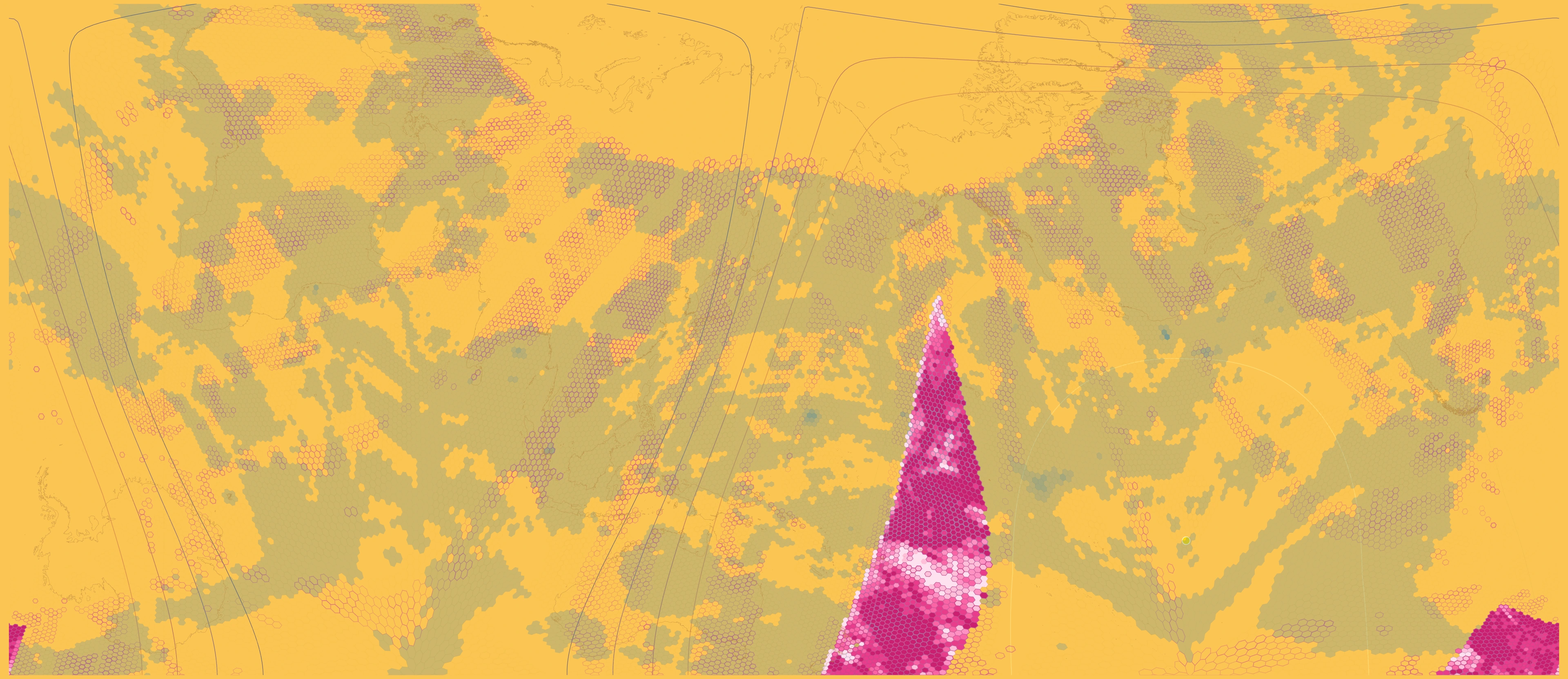
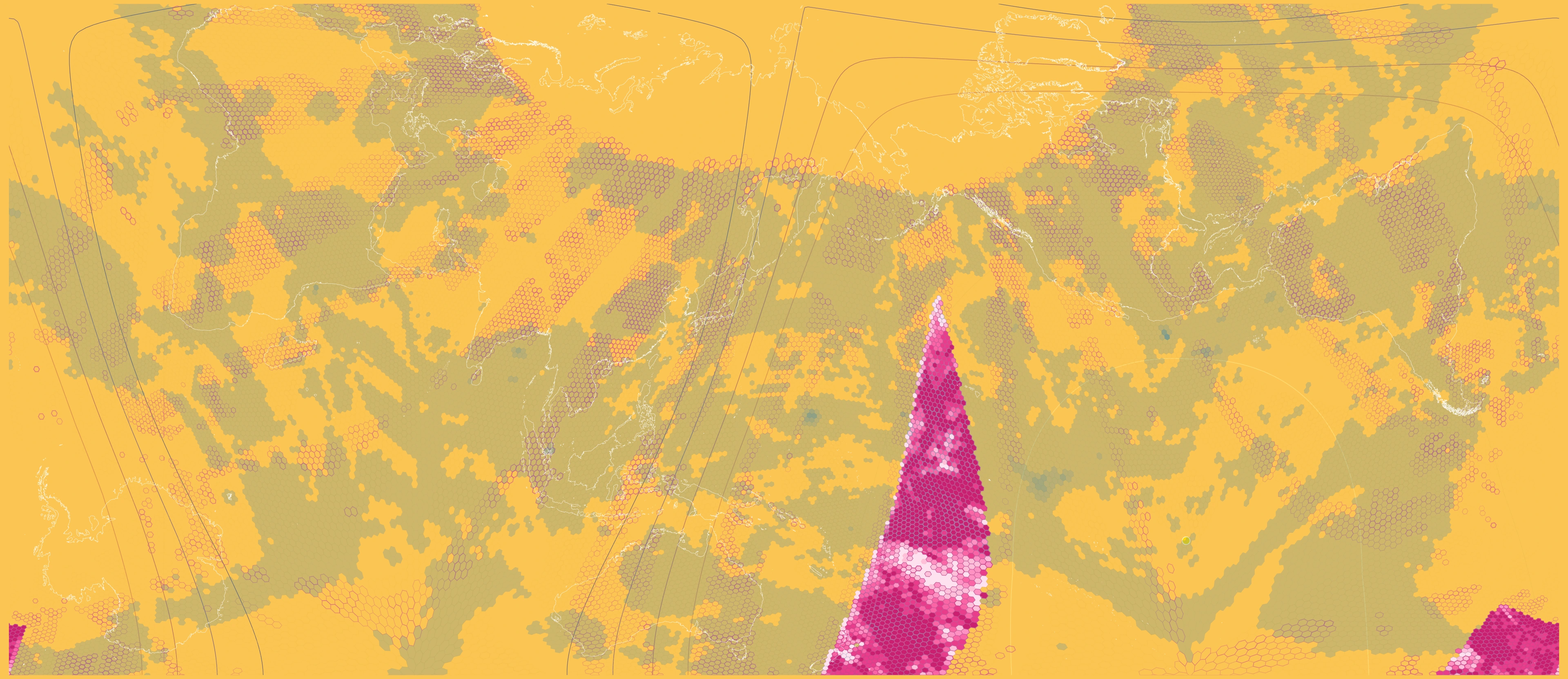
Place white land outlines above Setouchi atmosphere layers

diff --git a/scripts/setouchi_futures.py b/scripts/setouchi_futures.py
@@ -69,6 +69,68 @@ def background_variation(tree, color):
     return {'from': original, 'to': color, 'rectangles': count, 'geometry_changed': False}
 
 
+def land_outline_overlay(tree, settings):
+    """Draw existing coastlines last, preserving every viewport transform and clip."""
+    color, opacity = settings['color'], settings['opacity']
+    if not re.fullmatch(r'#[0-9a-fA-F]{6}', color) or not 0 <= opacity <= 1:
+        raise ValueError('Invalid land outline paint')
+    frames = tree.xpath('//*[@id="st2-image-frame"]')
+    coastlines = tree.xpath('//*[@id="terrestrial-coastline"]')
+    if len(frames) != 1 or len(coastlines) != 1:
+        raise ValueError('Expected one image frame and coastline group')
+    frame, coastline = frames[0], coastlines[0]
+    source = coastline.getparent()
+    definitions = source.getparent()
+    if etree.QName(definitions).localname != 'defs':
+        raise ValueError('Expected coastlines in the shared source definition')
+    href = '{http://www.w3.org/1999/xlink}href'
+    uses = [n for n in frame.iter('{' + SVG + '}use')
+            if n.get(href, n.get('href')) == '#' + source.get('id')]
+    if not uses:
+        raise ValueError('No placed views of the source cartography')
+    overlay = etree.Element('{' + SVG + '}g', id='web-land-outlines')
+    overlay.set('data-layer-order', 'top')
+
+    def wrapper_for(node):
+        ancestors = []
+        parent = node.getparent()
+        while parent is not frame:
+            if parent is None or etree.QName(parent).localname == 'defs':
+                raise ValueError('Outline placement is outside the rendered image frame')
+            ancestors.append(parent)
+            parent = parent.getparent()
+        target = overlay
+        for ancestor in reversed(ancestors):
+            # Keep clipping, transforms, and presentation, without duplicating IDs.
+            attrs = {key: value for key, value in ancestor.attrib.items() if key != 'id'}
+            target = etree.SubElement(target, ancestor.tag, attrs)
+        return target
+
+    for use in uses:
+        placed = deepcopy(use)
+        placed.attrib.pop('id', None)
+        placed.set(href if href in placed.attrib else 'href', '#terrestrial-coastline')
+        wrapper_for(use).append(placed)
+    # Remove coastlines from the data composition; the new overlay references
+    # their original paths from a separate definition, avoiding a double stroke.
+    definitions.append(coastline)
+    groups = [coastline]
+    inset = tree.xpath('//*[@id="terrestrial-coastline-antarctic-inset"]')
+    for group in inset:
+        target = wrapper_for(group)
+        target.append(group)
+        groups.append(group)
+    paths = 0
+    for group in groups:
+        for path in group.iter('{' + SVG + '}path'):
+            set_style(path, stroke=color, stroke_opacity=opacity)
+            paths += 1
+    frame.append(overlay)
+    return {'layer': 'web-land-outlines', 'position': 'top', 'color': color, 'opacity': opacity,
+            'paths': paths, 'placed_views': len(uses), 'antarctica_inset': bool(inset),
+            'geometry_changed': False, 'line_widths_changed': False}
+
+
 def fiber_variation(tree, config, legend=False):
     """Change display paint only; all path geometry, dash classes, and data stay put."""
     color = config['fiber_ocean_color']
@@ -144,9 +206,13 @@ def build_map(config, output, build, item, scope, env, bibliography):
     working_legend = legend
     counts = None
     background = None
-    if item.get('background'):
+    outlines = None
+    if item.get('background') or item.get('land_outline'):
         tree = etree.parse(str(working))
-        background = background_variation(tree, item['background'])
+        if item.get('background'):
+            background = background_variation(tree, item['background'])
+        if item.get('land_outline'):
+            outlines = land_outline_overlay(tree, item['land_outline'])
         working = build / (ident + '.svg')
         tree.write(str(working), xml_declaration=True, encoding='UTF-8')
     if stem == 'network-fiber':
@@ -206,6 +272,8 @@ def build_map(config, output, build, item, scope, env, bibliography):
             'amber submarine routes at full opacity in this web edition; source widths retained')
     if background:
         provenance['web_background_variation'] = background
+    if outlines:
+        provenance['web_land_outline_overlay'] = outlines
     result = {'fingerprint': fingerprint, 'assets': assets, 'provenance': provenance}
     write_json(receipt_path, result)
     print('Prepared', ident, flush=True)

diff --git a/docs/development/20261106_setouchi_triennale_futures.md b/docs/development/20261106_setouchi_triennale_futures.md
@@ -367,6 +367,32 @@ with all geometry and data styles identical. The 23 publishing tests and
 desktop/phone gallery checks passed; both revised image exports and their
 gallery framing were visually reviewed.
 
+### Atmosphere land-outline revision — 6 November 2026
+
+Place land outlines above every atmospheric layer in both web plates. The
+source coastlines were already last inside the shared data group, but their
+thin amber strokes were faint against the newly amber background. The web
+builder now separates those existing paths into a final `web-land-outlines`
+layer and paints them white `#ffffff` at full opacity, following the user's
+color correction. Original coastline geometry and line widths are retained;
+land remains unfilled.
+The nominal weights are **0.5 pt for World** and **1 pt for Japan**. After the
+Setouchi framing scale, the physical weights on the 44-inch sheets are about
+0.494 pt and 0.989 pt; responsive web previews scale those lines with the image.
+
+The World overlay preserves the three cyclic placements and their clipping,
+and includes the relocated Antarctica coastline. Japan retains its viewport
+clip and scaling. Coastlines are removed from the underlying data composition
+to avoid drawing them twice. The final outline layer is above the complete
+image composition. Atmospheric observations and the light amber ground retain
+their prior settings. The six web derivatives were rebuilt, with overlay
+settings recorded in the prepared manifest.
+
+Structural checks verified all path geometry, data styles, line widths,
+viewport transforms, and clips. World uses 4,343 coastline paths including
+Antarctica; Japan uses 4,157. Both white-outline exports were visually checked.
+The 23 publishing tests and desktop/phone gallery checks passed.
+
 ## Contact approaches: Hajime Narukawa
 
 Keio's current [faculty profile](https://www.keio.ac.jp/en/faculty/k_100012208/)

diff --git a/output/setouchi-futures-20261106/README.md b/output/setouchi-futures-20261106/README.md
@@ -13,8 +13,12 @@ reads, so the preview does not recreate or replace their unseen content.
 
 The images use the approved wine/amber presentation. Both Atmosphere plates
 use the lighter amber `#fcc553` (`rgb(252,197,83)`) as their background, including
-the thumbnail frames and full-sheet detail images. Atmospheric data colors,
-opacity, and geometry are retained. Submarine fiber routes
+the thumbnail frames and full-sheet detail images. Land outlines sit in a
+separate top layer, using white `#ffffff` at full opacity with their original
+line widths. The World layer includes the relocated Antarctica outline.
+Nominal outline weights are 0.5 pt for World and 1 pt for Japan (approximately
+0.49 pt and 0.99 pt after the Setouchi framing scale on the 44-inch sheets).
+Atmospheric data colors, opacity, and geometry are retained. Submarine fiber routes
 are amber at full opacity, with matching legend swatches; land routes remain
 green. Route geometry and dash classes are retained. Water, atmosphere, and
 temperature thumbnails trim the unused part of the Japan print sheet. The
